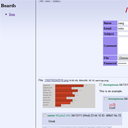
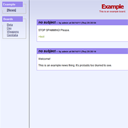
better rebuilding system for themes

diff --git a/mod.php b/mod.php
@@ -304,7 +304,15 @@
 					$query->execute() or error(db_error($query));
 					
 					// Build theme
-					$theme['build_function'](themeSettings());
+					rebuildTheme('all');
+					
+					echo Element('page.html', Array(
+						'config'=>$config,
+						'title'=>'Installed "' . htmlentities($theme['name']) . '"',
+						'body'=>'<p style="text-align:center">Successfully installed and built theme.</p>',
+						'mod'=>true
+						)
+					);
 				} else {
 					$body = '<form action="" method="post">';
 					
@@ -481,7 +489,7 @@
 			$query->bindValue(':id', $match[1], PDO::PARAM_INT);
 			$query->execute() or error(db_error($query));
 			
-			rebuildTheme();
+			rebuildTheme('news');
 			
 			header('Location: ?/news', true, $config['redirect_http']);
 		} elseif(preg_match('/^\/news$/', $query)) {			
@@ -504,7 +512,7 @@
 					$query->bindValue(':body', $_POST['body']);
 					$query->execute() or error(db_error($query));
 					
-					rebuildTheme();
+					rebuildTheme('news');
 				}
 				
 				$body .= '<fieldset><legend>New post</legend><form style="display:inline" action="" method="post"><table>' .
@@ -1197,6 +1205,8 @@
 				$query->bindValue(':id', $board['id'], PDO::PARAM_INT);
 				$query->execute() or error(db_error($query));
 				
+				rebuildTheme('boards');
+				
 				header('Location: ?/', true, $config['redirect_http']);
 			} else {
 				if(isset($_POST['title']) && isset($_POST['subtitle'])) {
@@ -1210,6 +1220,8 @@
 					
 					$query->bindValue(':id', $board['id'], PDO::PARAM_INT);
 					$query->execute() or error(db_error($query));
+					
+					rebuildTheme('boards');
 					
 					openBoard($board['uri']);
 				}
@@ -1364,7 +1376,7 @@
 			$body = '<div class="ban"><h2>Rebuilding…</h2><p>';
 			
 			$body .= 'Regenerating theme files…<br/>';
-			rebuildTheme();
+			rebuildTheme('all');
 			
 			$body .= 'Generating Javascript file…<br/>';
 			buildJavascript();
@@ -1509,6 +1521,8 @@
 				
 				// Build the board
 				buildIndex();
+				
+				rebuildTheme('boards');
 				
 				header('Location: ?/board/' . $board['uri'], true, $config['redirect_http']);
 			} else {

diff --git a/inc/functions.php b/inc/functions.php
@@ -104,13 +104,13 @@
 		return $theme;
 	}
 	
-	function rebuildTheme() {
+	function rebuildTheme($action) {
 		$query = query("SELECT `value` AS `theme` FROM `theme_settings` WHERE `name` = 'theme'") or error(db_error());
 		if($theme = $query->fetch()) {
 			// A theme is installed
 			
 			$theme = loadThemeConfig($theme['theme']);
-			$theme['build_function'](themeSettings());
+			$theme['build_function']($action, themeSettings());
 		}
 	}
 	
@@ -799,10 +799,16 @@
 					$content .= '<div style="display:none"><input type="text" name="' . htmlspecialchars($name) . '" value="' . htmlspecialchars($value) . '" /></div>';
 					break;
 				case 6:
-					$content .= '<textarea style="display:none" name="' . htmlspecialchars($name) . '">' . htmlspecialchars($value) . '</textarea>';
+					if(!empty($value))
+						$content .= '<textarea style="display:none" name="' . htmlspecialchars($name) . '">' . htmlspecialchars($value) . '</textarea>';
+					else
+						$content .= '<input type="hidden" name="' . htmlspecialchars($name) . '" value="' . htmlspecialchars($value) . '" />';
 					break;
 				case 7:
-					$content .= '<textarea name="' . htmlspecialchars($name) . '" style="display:none">' . htmlspecialchars($value) . '</textarea>';
+					if(!empty($value))
+						$content .= '<textarea name="' . htmlspecialchars($name) . '" style="display:none">' . htmlspecialchars($value) . '</textarea>';
+					else
+						$content .= '<input type="hidden" name="' . htmlspecialchars($name) . '" value="' . htmlspecialchars($value) . '" />';
 					break;
 				case 8:
 					$content .= '<div style="display:none"><textarea name="' . htmlspecialchars($name) . '" style="display:none">' . htmlspecialchars($value) . '</textarea></div>';

diff --git a/templates/homepage/frameset/theme.php b/templates/homepage/frameset/theme.php
@@ -28,18 +28,28 @@ Users never have to leave the homepage; they can do all their browsing from the 
 	// Unique function name for building everything
 	$theme['build_function'] = 'frameset_build';
 	
-	function frameset_build($settings) {
-		Frameset::build($settings);
+	function frameset_build($action, $settings) {
+		// Possible values for $action:
+		//	- all (rebuild everything, initialization)
+		//	- news (news has been updated)
+		//	- boards (board list changed)
+		
+		Frameset::build($action, $settings);
 	}
 	
 	// Wrap functions in a class so they don't interfere with normal Tinyboard operations
 	class Frameset {
-		public static function build($settings) {
+		public static function build($action, $settings) {
 			global $config;
 			
-			file_put_contents($config['dir']['home'] . $config['file_index'], Frameset::homepage($settings));
-			file_put_contents($config['dir']['home'] . 'sidebar.html', Frameset::sidebar($settings));
-			file_put_contents($config['dir']['home'] . 'news.html', Frameset::news($settings));
+			if($action == 'all')
+				file_put_contents($config['dir']['home'] . $config['file_index'], Frameset::homepage($settings));
+			
+			if($action == 'all' || $action == 'boards')
+				file_put_contents($config['dir']['home'] . 'sidebar.html', Frameset::sidebar($settings));
+			
+			if($action == 'all' || $action == 'news')
+				file_put_contents($config['dir']['home'] . 'news.html', Frameset::news($settings));
 		}
 		
 		// Build homepage

diff --git a/templates/homepage/basic/theme.php b/templates/homepage/basic/theme.php
@@ -25,16 +25,22 @@
 	// Unique function name for building everything
 	$theme['build_function'] = 'basic_build';
 	
-	function basic_build($settings) {
-		Basic::build($settings);
+	function basic_build($action, $settings) {
+		// Possible values for $action:
+		//	- all (rebuild everything, initialization)
+		//	- news (news has been updated)
+		//	- boards (board list changed)
+		
+		Basic::build($action, $settings);
 	}
 	
 	// Wrap functions in a class so they don't interfere with normal Tinyboard operations
 	class Basic {
-		public static function build($settings) {
+		public static function build($action, $settings) {
 			global $config;
 			
-			file_put_contents($config['dir']['home'] . $config['file_index'], Basic::homepage($settings));
+			if($action == 'all' || $action == 'news')
+				file_put_contents($config['dir']['home'] . $config['file_index'], Basic::homepage($settings));
 		}
 		
 		// Build news page
